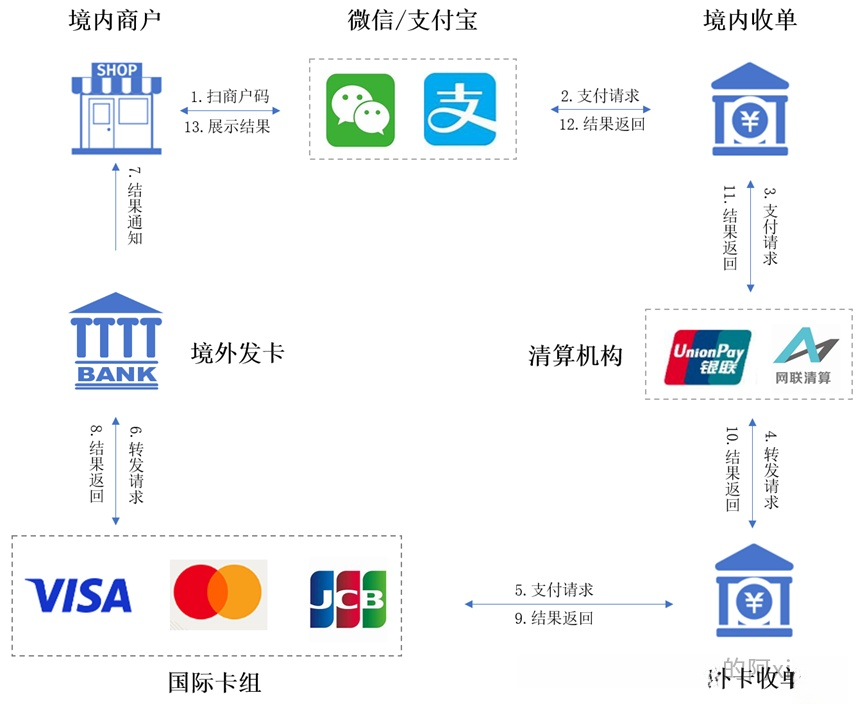
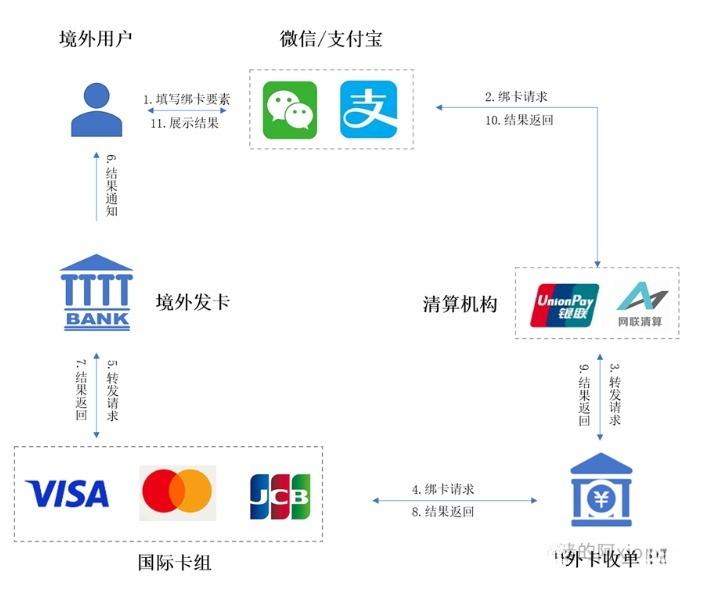
2024-10-22-update

diff --git a/_posts/2025-05-17-risk-payment-service-in-china.md b/_posts/2025-05-17-risk-payment-service-in-china.md
@@ -13,9 +13,64 @@ katex: true
 
 # 移动支付
 
+**外卡内绑：**支付宝/微信支付 + 外卡、云闪付 + 银联外卡 ；
 
+**外包内用：**境外钱包 + 外卡；
 
+## 支付宝/微信支付+外卡
 
+### 绑卡流程
 
-![Token使用](\assets\reading minutes\2025-04-15-risk-payment-token\1.png)
+![支付宝/微信支付+外卡-绑卡流程](\assets\reading minutes\2025-05-17-risk-payment-service-in-china\1.png)
 
+**说明：**
+
+1、外卡收单：主要负责交易的换汇及跨境人民币申报等工作；支付宝微信帮外卡的外卡收单是中行或工行；
+
+### 支付流程
+
+![支付宝/微信支付+外卡-支付流程](\assets\reading minutes\2025-05-17-risk-payment-service-in-china\2.png)
+
+**说明：**
+
+1、境内收单：微信对应财付通，支付宝对应蚂蚁金服；
+
+## 云闪付+银联外卡
+
+### 绑卡流程
+
+![云闪付+银联外卡-绑卡流程](\assets\reading minutes\2025-05-17-risk-payment-service-in-china\3.png)
+
+**说明：**
+
+1、云闪付只支持银联外卡
+
+### 支付流程
+
+![云闪付+银联外卡-支付流程](\assets\reading minutes\2025-05-17-risk-payment-service-in-china\4.png)
+
+**说明：**
+
+1、该场景下，大家应该也发现了一个特殊的地方，这里并没有出现收单机构的角色，按照大家的印象，银联作为卡组，按理说应当是“四方模式”，而四方里面应当有收单机构的存在，但稍微深入思索，估计主要原因大家应该都懂，银联是央行下属机构，并不是第三方支付公司，银联这里可以认为扮演了**收单、转接清算和卡组**三重角色。
+
+## 境外钱包+外卡
+
+根据是否留存资金又可以把这两类钱包分为穿透式数字钱包（Passthrough Wallet）和滞留式数字钱包（Staged Wallet）：
+
+**穿透式数字钱包**：Apple Pay、Google Pay，不做资金沉淀
+
+**滞留式数字钱包**：Paypal、Alipay、Wechat Pay，有资金沉淀
+
+### 绑卡流程
+
+以穿透式数字钱包绑卡-银联合作 为例：
+
+![境外钱包+外卡-绑卡流程](\assets\reading minutes\2025-05-17-risk-payment-service-in-china\5.png)
+
+### 支付流程
+
+![境外钱包+外卡-支付流程](\assets\reading minutes\2025-05-17-risk-payment-service-in-china\6.png)
+
+说明：
+
+1、流程图上的银联其实可以拆分成为中国银联和银联国际两个主体，中国银联负责境内侧转接，拓展受理侧业务，如境内收单会员的管理，而银联国际负责境外侧转接，发卡银行是银联国际的会员，根据银联国际的业务规则进行对个人客户的发卡及管理。

diff --git a/_posts/2024-01-25-ML-dbscan.md b/_posts/2024-01-25-ML-dbscan.md
@@ -1,0 +1,13 @@
+---
+layout: post
+title: "DBSCAN"
+date: 2023-01-25
+description: "DBSCAN"
+tag: 机器学习
+katex: true  
+---
+
+
+
+
+
